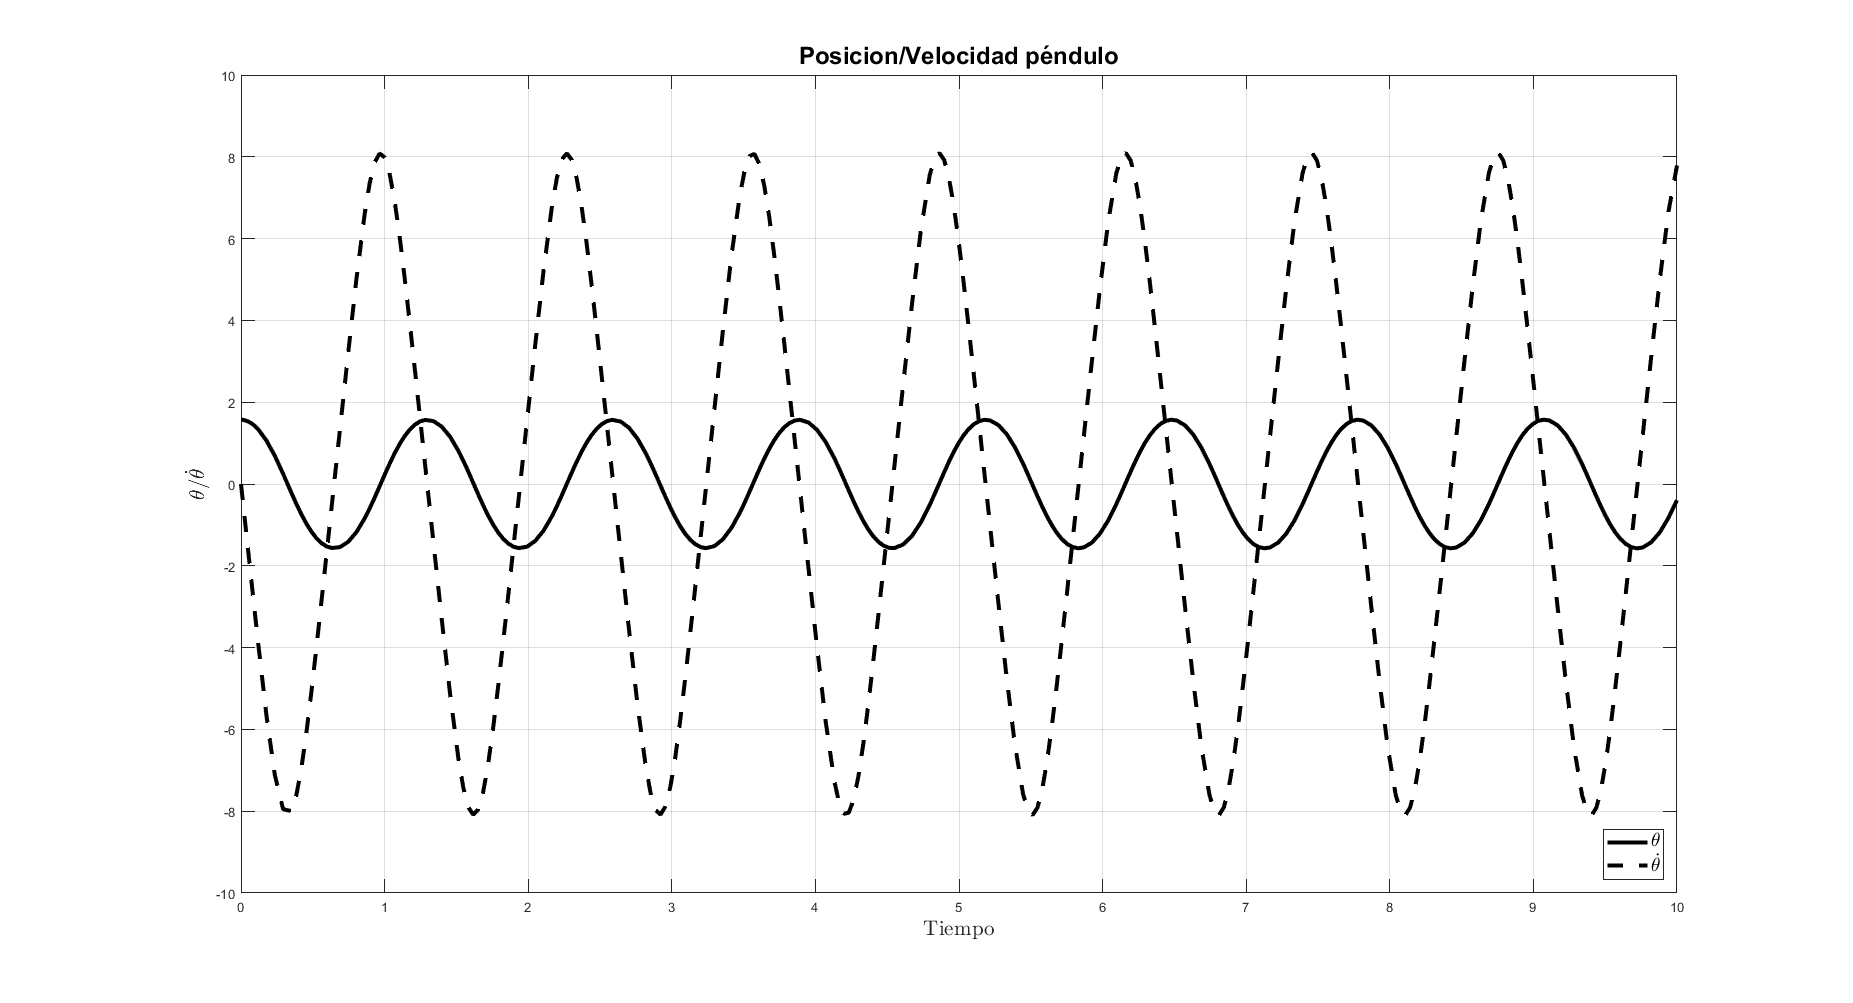
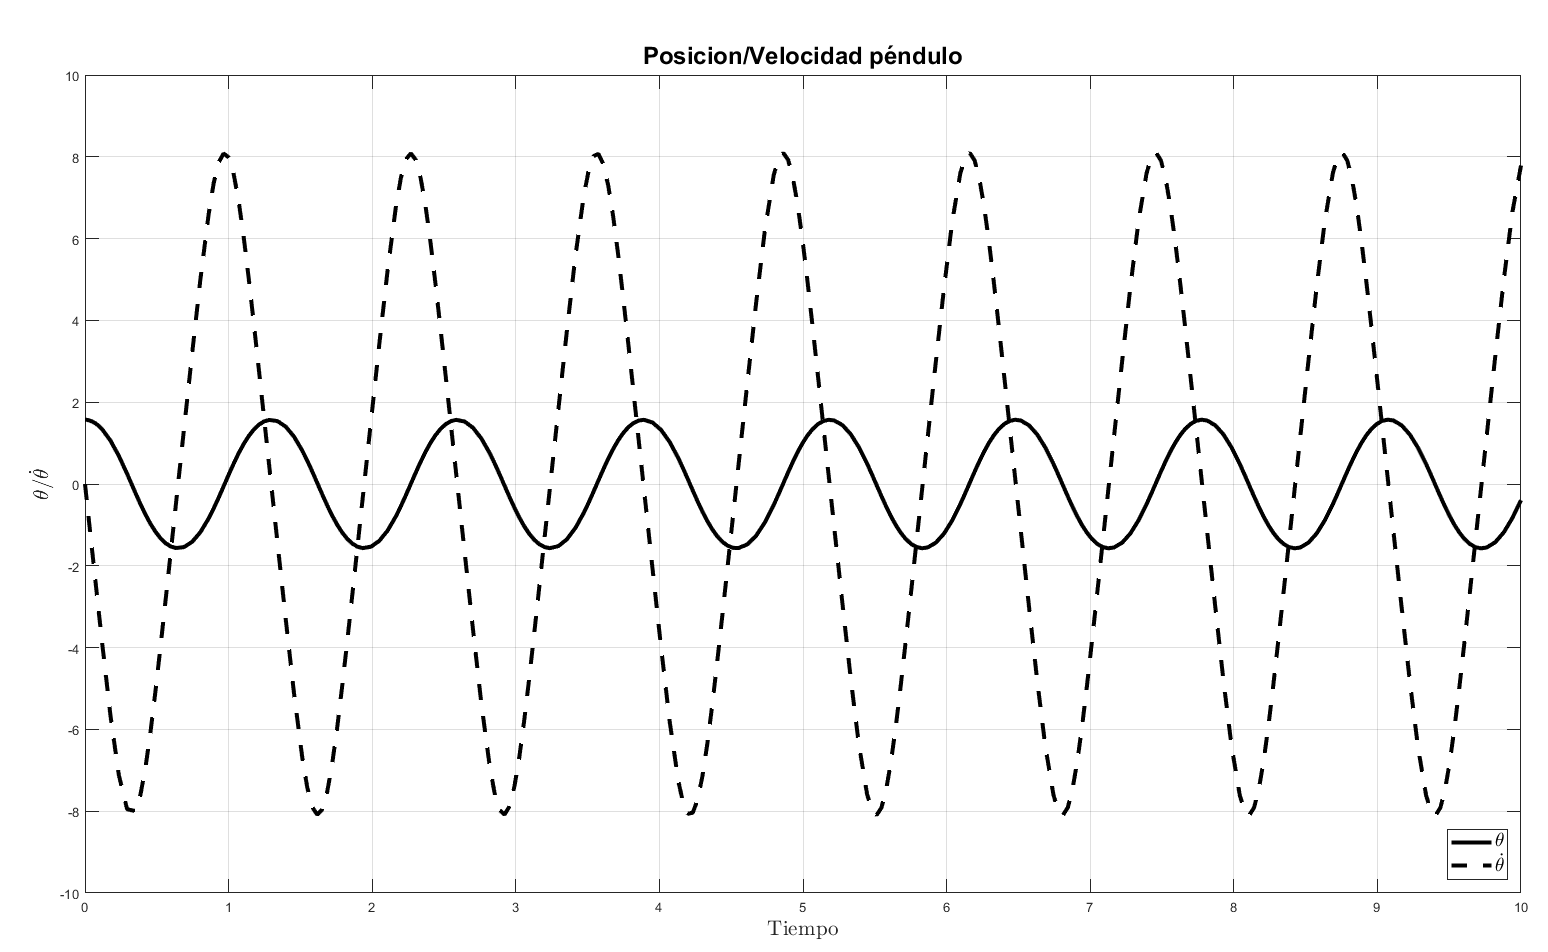
Updated simulation

diff --git a/Report/tex/simulacion.tex b/Report/tex/simulacion.tex
@@ -17,10 +17,11 @@ y se incluye como anexo.
 \hline
 Longitud ($l$) & 2.5 [m] \\
 Masa ($m$) & 5 [kg]\\
-Coeficiente de fricción ($k$) & 1 [$N \cdot s / m$] \\
+Coeficiente de fricción ($k$) & $\{0,1\}$ [$N \cdot s / m$] \\
 Posición angular inicial ($\theta_0$) & $0.5\pi$ [rad] \\
 Velocidad angular inicial ($\dot{\theta}$) & 0 [rad/s] \\
-Tiempo de simulación & 15 [s]  \\
+Tiempo de simulación & 5 [s]  \\
+Paso de iteración & 1/30 [s] \\
 Gravedad ($g$) & 9.81 [$m/s^2$]  \\
 \hline
  \end{tabular}
@@ -29,6 +30,39 @@ Gravedad ($g$) & 9.81 [$m/s^2$]  \\
 \label{table: simulation conditions}
 \end{table}
 
+\subsection{Caso sin fricción}
+
+% TODO UPDATE TEXT TO MATCH WRITING STYLE
+
+Podemos observar la figura de un circulo. 
+Esto ocurre, porque el sistema no tiene fricción,
+no existe una fuerza que detenga el movimiento, 
+ni disminuya la velocidad del péndulo, 
+por lo cual tenemos un movimiento armónico simple.
+
+En la figura \ref{fig: time plot - NF} se 
+representa la posición y velocidad del péndulo en el tiempo.
+
+
+\begin{figure}[hb]
+ \centering 
+ \includegraphics[scale=0.3]{./img/PosVelNF.png}
+ % fasependulox2.png: 1853x1003 px, 96dpi, 49.02x26.53 cm, bb=0 0 1390 752
+ \caption{Comportamiento de $\theta(t)$ y $\dot{\theta}(t)$ en el tiempo.}
+ \label{fig: time plot theta dtheta no friction}
+\end{figure}
+
+\begin{figure}[hb]
+ \centering 
+ \includegraphics[scale=0.3]{./img/faseNF.png}
+ % fasependulox2.png: 1853x1003 px, 96dpi, 49.02x26.53 cm, bb=0 0 1390 752
+\caption{Diagrama de fase de $\theta(t)$ y $\dot{\theta}(t)$.}
+ \label{fig: phase plot theta no friction}
+\end{figure}
+
+
+
+\subsection{Caso con fricción}
 
 Se observa que el péndulo tiende a una posición de reposo debido
 al efecto que la fuerza de fricción tiene sobre el sistema.
@@ -41,19 +75,16 @@ posicionando al péndulo en el eje vertical del marco referencial.
 
 \begin{figure}[hb]
  \centering 
- \includegraphics[scale=0.35]{./img/faseNF.png}
+ \includegraphics[scale=0.3]{./img/PosVelF.png}
  % fasependulox2.png: 1853x1003 px, 96dpi, 49.02x26.53 cm, bb=0 0 1390 752
  \caption{Comportamiento de $\theta(t)$ y $\dot{\theta}(t)$ en el tiempo.}
- \label{fig: time plot theta dtheta}
+ \label{fig: time plot theta dtheta friction}
 \end{figure}
 
 \begin{figure}[hb]
  \centering 
-%  \includegraphics[scale=0.35]{./img/fasependulox2.png}
+ \includegraphics[scale=0.3]{./img/faseF.png}
  % fasependulox2.png: 1853x1003 px, 96dpi, 49.02x26.53 cm, bb=0 0 1390 752
 \caption{Diagrama de fase de $\theta(t)$ y $\dot{\theta}(t)$.}
- \label{fig: phase plot theta}
+ \label{fig: phase plot theta friction}
 \end{figure}
-
-
-

diff --git a/Report/tex/resultados.tex b/Report/tex/resultados.tex
@@ -1,52 +1,4 @@
 \section{Resultados}
-A continuación se muestran algunas imágenes obtenidas del simulador del péndulo simple.
-
-
-
-\begin{figure}[hb]
- \centering 
- \includegraphics[scale=0.35]{./img/faseNF.png}
- % fasependulox2.png: 1853x1003 px, 96dpi, 49.02x26.53 cm, bb=0 0 1390 752
-\caption{Diagrama de fase de $\theta(t)$ y $\dot{\theta}(t)$.}
- \label{fig: phase plot - NF}
-\end{figure}
-
-Podemos observar la figura de un circulo. Esto ocurre, porque el sistema no tiene fricción, no existe una fuerza que detenga el movimiento, ni disminuya la velocidad del péndulo, por lo cual tenemos un movimiento armónico simple.\\
-
-En la figura \ref{fig: time plot - NF} se representa la posición y velocidad del péndulo en el tiempo.
-
-\begin{figure}[hb]
- \centering 
- \includegraphics[scale=0.35]{./img/PosVelNF.png}
- % fasependulox2.png: 1853x1003 px, 96dpi, 49.02x26.53 cm, bb=0 0 1390 752
- \caption{Comportamiento de $\theta(t)$ y $\dot{\theta}(t)$ en el tiempo.}
- \label{fig: time plot - NF}
-\end{figure}
-
-Al ser un movimiento armónico, la posición y velocidad se comportan de manera periódica, oscilando entre valores de $\frac{\pi}{2}$ y $-\frac{\pi}{2}$ para la posición y entre $8$ y $-8$ radianes para la velocidad. Ya que el sistema no tiene una fuerza que se oponga el movimiento, no tiene una manera de disipar la energía del sistema, el péndulo continuara moviéndose hasta que una fuerza externa lo detenga.\\
-
-
-En la figura \ref{fig: phase plot - F} se representa el diagrama fase del sistema para posición y velocidad del péndulo con respecto al angulo $\theta$. A diferencia de las imágenes anteriores, que no estaba presente la fricción, en las siguientes la fricción esta presente en nuestro sistema. Podemos observar que la velocidad y la posición comienzan a converger en cero. Lo que significa que el péndulo esta comenzado a detenerse. La velocidad tiende a $0$ y el péndulo tiende a estar en una posición de $0°$.
-
-\begin{figure}[hb]
- \centering 
- \includegraphics[scale=0.35]{./img/faseF.png}
- % fasependulox2.png: 1853x1003 px, 96dpi, 49.02x26.53 cm, bb=0 0 1390 752
-\caption{Diagrama de fase de $\theta(t)$ y $\dot{\theta}(t)$.}
- \label{fig: phase plot - F}
-\end{figure}
-
-
-
-
-\begin{figure}[hb]
- \centering 
- \includegraphics[scale=0.35]{./img/PosVelF.png}
- % fasependulox2.png: 1853x1003 px, 96dpi, 49.02x26.53 cm, bb=0 0 1390 752
- \caption{Comportamiento de $\theta(t)$ y $\dot{\theta}(t)$ en el tiempo.}
- \label{fig: time plot - F}
-\end{figure}
-
 
 
 \begin{figure}[h]
